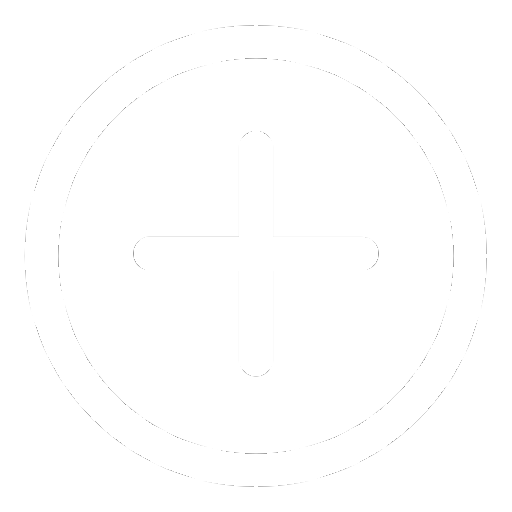
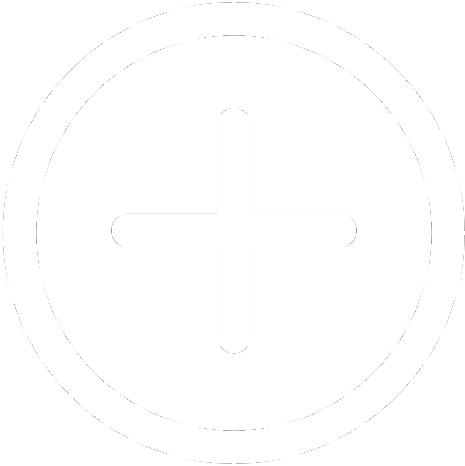
Possibility to add contacts to the group from group menu!

diff --git a/Documents/Protótipo/Protótipos Funcionais/Terceiro/group.js b/Documents/Protótipo/Protótipos Funcionais/Terceiro/group.js
@@ -41,7 +41,21 @@ function build_group_screen(canvas){
 		group_screen.people.push(square)
 	}
 
-    
+	group_screen.help_button = build_image(canvas, [2 / 5 * group_screen.width, 2 / 5 * group_screen.height], [group_screen.width / 10, group_screen.height / 10], undefined, MATERIALS_DIR + '/Help.png')
+	group_screen.addChild(group_screen.help_button)
+	
+	object_clickable(canvas, group_screen.help_button)
+	group_screen.help_button.bind('click tap', function() {
+		changeScreen(canvas, build_group_help_screen(canvas))
+	})
+
+	group_screen.add_button = build_image(canvas, [- 2 / 5 * group_screen.width, 2 / 5 * group_screen.height], [group_screen.width / 10, group_screen.height / 10], undefined, MATERIALS_DIR + '/Add_contact.png')
+	group_screen.addChild(group_screen.add_button)
+	
+	object_clickable(canvas, group_screen.add_button)
+	group_screen.add_button.bind('click tap', function() {
+		changeScreen(canvas, build_add_contact_group_screen(canvas))
+	})
 
     return group_screen
 }
@@ -53,6 +67,47 @@ function build_group_help_screen(canvas){
 	group_help_screen.addChild(group_help_screen.help_text)
 
 	return group_help_screen
+}
+
+function build_add_contact_group_screen(canvas) {
+	var add_screen = build_screen(canvas, descriptions['group_add'], true, true)
+
+	add_screen.image = build_image(canvas, [0, - add_screen.height / 10], [add_screen.width / 3, add_screen.height / 3], undefined, MATERIALS_DIR + '/Person_contacts.png')
+    add_screen.addChild(add_screen.image)
+
+    const contacts_list = contacts_information.contacts_list.sort(function(a, b){
+		const name_a = a.name
+        const name_b = b.name
+
+        if ( name_a < name_b ) return -1
+        if ( name_a > name_b ) return 1
+        return 0
+    }).filter( function (el) {
+		return !contacts_information.group.includes(el)
+	})
+    
+    var options = []
+    var link = []
+    var profile_pics = []
+    for (contact_index in contacts_list) {
+        const contact = contacts_list[contact_index]
+
+        options.push(contact.name)
+        link.push('link_arrow')
+
+        if (contact.image != undefined) profile_pics.push(contact.image)
+        else profile_pics.push('Person_contacts.png')
+    }
+
+    links = add_lines(canvas, add_screen, 0, options, link, profile_pics)
+    for (link_index in links) {
+        const contact = contacts_list[link_index]
+        links[link_index].bind('click tap', function() {
+            
+        })
+    }
+
+	return add_screen
 }
 
 function build_see_and_edit_group_screen(canvas){

diff --git a/Documents/Protótipo/Protótipos Funcionais/Terceiro/language.js b/Documents/Protótipo/Protótipos Funcionais/Terceiro/language.js
@@ -51,12 +51,13 @@ const STRINGS_DESCRIPTIONS = {
 
 		group: 'Grupo',
 		group_help: 'Ajuda (Grupo)',
+		group_add: 'Adicionar ao Grupo',
 		see_group: 'Ver Grupo',
 		edit_group: 'Editar Grupo',
 
 		contacts: 'Contactos',
 		contact: 'Contacto',
-		add_contact_group: 'Adicionar ao Grupo',
+		add_contact_group: 'Adicionar Contacto ao Grupo',
 		remove_contact_group: 'Remover do Grupo',
 		add_contact: 'Adicionar Contacto',
 
@@ -118,6 +119,7 @@ const STRINGS_DESCRIPTIONS = {
 
 		group: 'Group',
 		group_help: 'Help (Group)',
+		group_add: 'Add to the Group',
 		see_group: 'See Group',
 		edit_group: 'Edit Group',
 

diff --git a/Documents/Protótipo/Protótipos Funcionais/Terceiro/other_screens.js b/Documents/Protótipo/Protótipos Funcionais/Terceiro/other_screens.js
@@ -185,6 +185,12 @@ function build_frame(canvas) {
 			case descriptions['group']:
 			changeScreen(canvas, build_menu_screen(canvas))
 			break
+			case descriptions['group_help']:
+			changeScreen(canvas, build_group_screen(canvas))
+			break
+			case descriptions['group_add']:
+			changeScreen(canvas, build_group_screen(canvas))
+			break
 			case descriptions['see_and_edit_group']:
 			changeScreen(canvas, build_group_screen(canvas))
 			break
